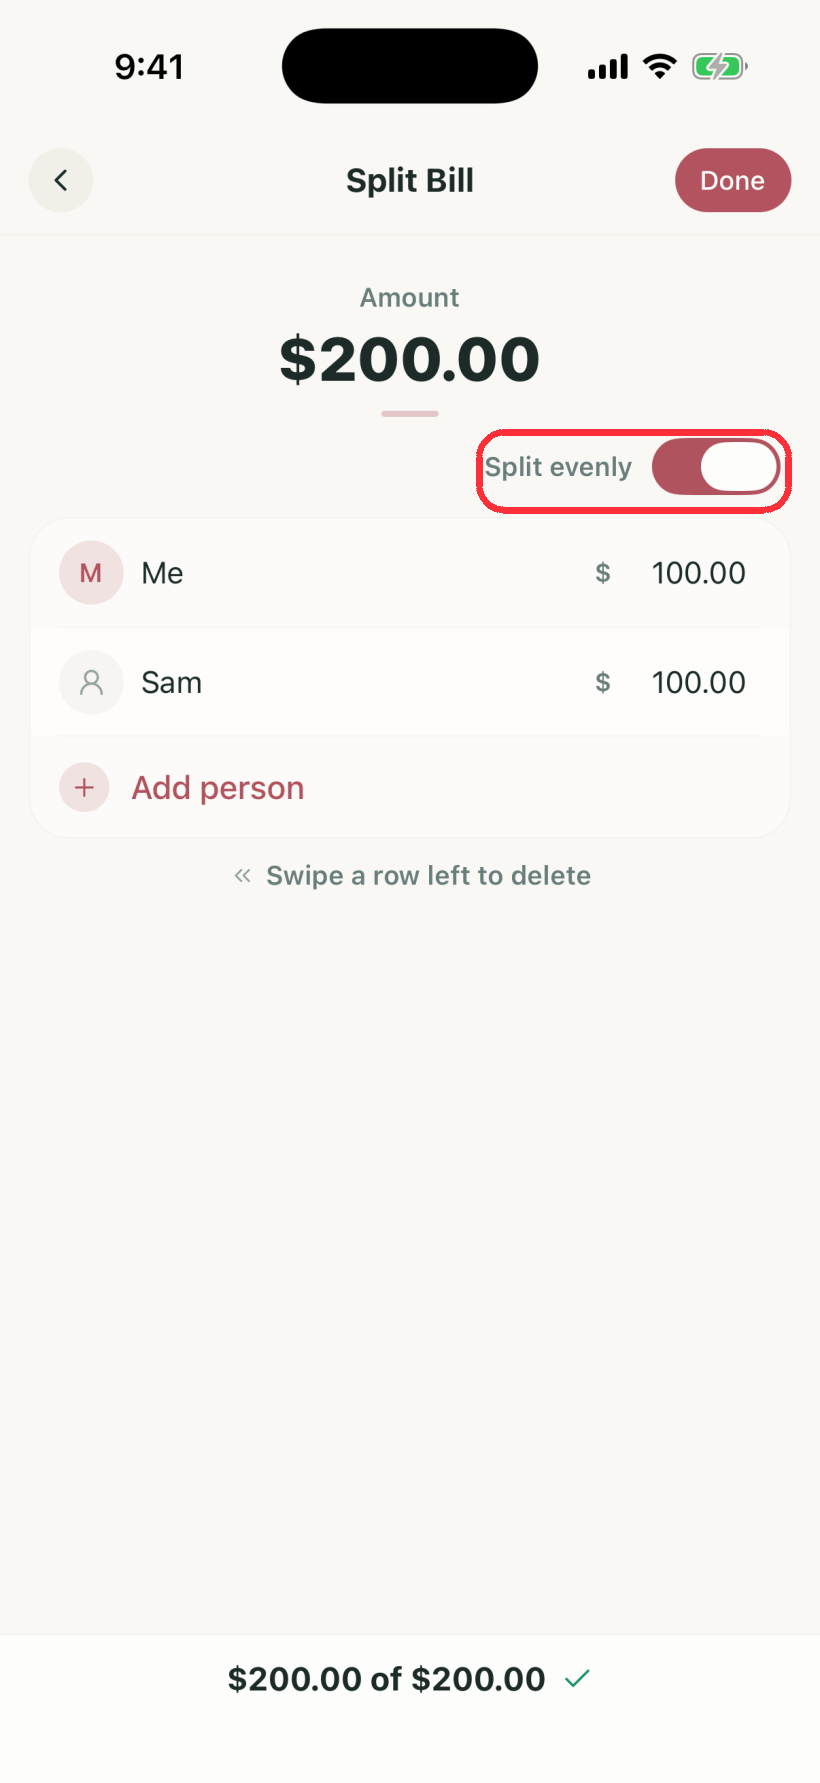
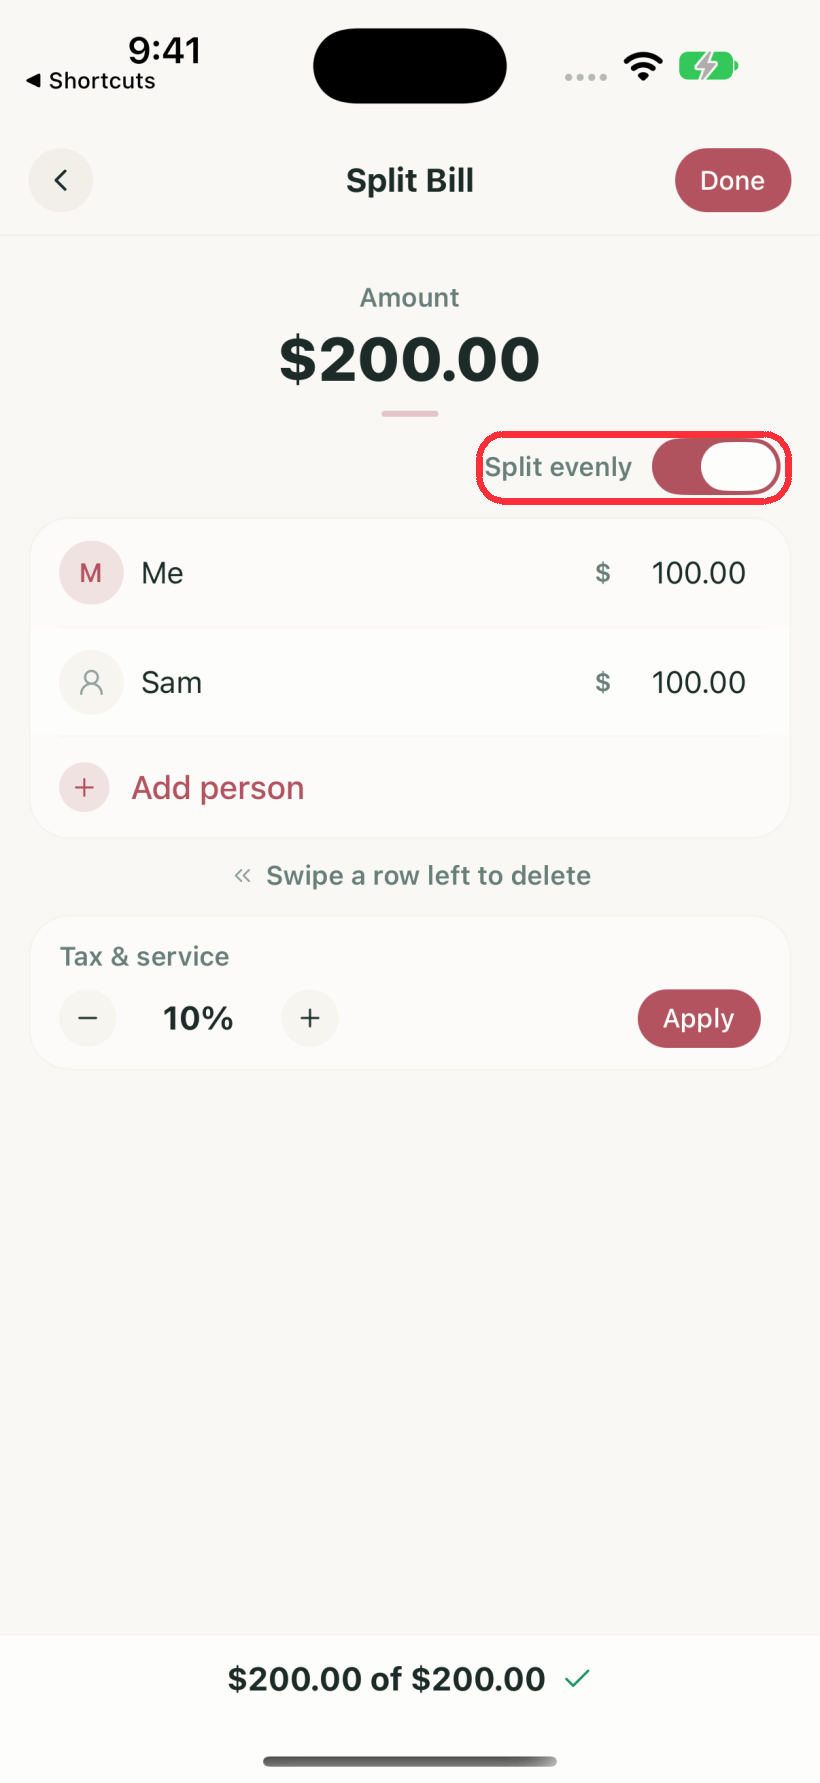
Fix split bill headers and tax adjustments (#568)

diff --git a/features/transactions/components/editor/SplitBillModal.tsx b/features/transactions/components/editor/SplitBillModal.tsx
@@ -36,7 +36,11 @@ import {
 } from '~/features/transactions/components/editor/calculatorEngine';
 import { MiniNumpad } from '~/features/transactions/components/editor/MiniNumpad';
 import { recentSplitPersonNames } from '~/features/transactions/lib/settleUp';
-import { applyPercent, nextEditableAmountIndex } from '~/features/transactions/lib/splitMath';
+import {
+  applyPercent,
+  nextEditableAmountIndex,
+  sumUnpaidRows,
+} from '~/features/transactions/lib/splitMath';
 import { useThemeColors } from '~/hooks/useThemeColors';
 import { I18n } from '~/lib/i18n';
 import { triggerHaptic } from '~/services/haptics';
@@ -80,7 +84,8 @@ interface SplitBillModalProps {
   total: number;
   defaultAccountId: string | null;
   splits: SplitDraft[];
-  onChange: (splits: SplitDraft[]) => void;
+  /** Percentage adjustments supply the matching parent total in fixed-total mode. */
+  onChange: (splits: SplitDraft[], adjustedTotal?: number) => void;
   splitEvenly: boolean;
   onSplitEvenlyChange: (v: boolean) => void;
   accounts: Account[];
@@ -100,7 +105,7 @@ const styles = StyleSheet.create({
   },
 });
 
-// Tax & service percentage stepper bounds (itemized mode). Negative values are
+// Tax & service percentage stepper bounds. Negative values are
 // a discount; applyPercent supports anything > -100.
 const DEFAULT_ADJUST_PERCENT = 10;
 const MIN_ADJUST_PERCENT = -99;
@@ -432,7 +437,7 @@ export function SplitBillModal({
 
   const diff = useMemo(() => Math.round((total - unpaidSum) * 100) / 100, [total, unpaidSum]);
 
-  // Itemized-mode tax & service adjustment: a single percentage stepper.
+  // Tax & service adjustment: a single percentage stepper.
   // Applying is a one-shot transform of the row amounts; applying twice
   // stacks intentionally (service charge, then GST).
   const [percent, setPercent] = useState(DEFAULT_ADJUST_PERCENT);
@@ -488,7 +493,7 @@ export function SplitBillModal({
     const next = applyPercent(splits, percent);
     if (!next) return;
     void triggerHaptic('success');
-    onChange(next);
+    onChange(next, itemized ? undefined : sumUnpaidRows(next));
     Keyboard.dismiss();
     // Close the mini numpad. Without this the focused row keeps showing its live
     // expression (not the freshly scaled amount) and confirming the pad would
@@ -496,7 +501,7 @@ export function SplitBillModal({
     // the highlighted field.
     setFocusedAmountIndex(null);
     setFocusedExpression('');
-  }, [onChange, percent, splits]);
+  }, [itemized, onChange, percent, splits]);
 
   const formatMoney = useCallback(
     (n: number) => {
@@ -945,66 +950,64 @@ export function SplitBillModal({
             </View>
           ) : null}
 
-          {/* Tax & service (itemized only): a percentage stepper applied
+          {/* Tax & service: a percentage stepper applied
               proportionally on top of the entered amounts. */}
-          {itemized ? (
-            <View className="mx-4 mt-3 rounded-[20px] bg-card/60 border border-border/25 overflow-hidden">
-              <View className="px-4 pt-3 pb-1">
-                <Text variant="caption" tone="muted">
-                  {percent < 0
-                    ? I18n.t('transactions.editor.split.discount_title')
-                    : I18n.t('transactions.editor.split.adjustments_title')}
-                </Text>
-              </View>
-              <View className="px-4 pb-3 pt-1 flex-row items-center gap-3">
-                <Pressable
-                  onPressIn={() => startHold(-1)}
-                  onPressOut={stopHold}
-                  disabled={percent <= MIN_ADJUST_PERCENT}
-                  hitSlop={6}
-                  className="h-8 w-8 rounded-full bg-secondary/60 items-center justify-center"
-                  style={{ opacity: percent <= MIN_ADJUST_PERCENT ? 0.4 : 1 }}
-                >
-                  <Minus size={14} color={themeColors.text} />
-                </Pressable>
-                <Text variant="bodyStrong" className="min-w-[60px] text-center">
-                  {I18n.t('transactions.editor.split.percent_chip', { percent })}
-                </Text>
-                <Pressable
-                  onPressIn={() => startHold(1)}
-                  onPressOut={stopHold}
-                  disabled={percent >= MAX_ADJUST_PERCENT}
-                  hitSlop={6}
-                  className="h-8 w-8 rounded-full bg-secondary/60 items-center justify-center"
-                  style={{ opacity: percent >= MAX_ADJUST_PERCENT ? 0.4 : 1 }}
-                >
-                  <Plus size={14} color={themeColors.text} />
-                </Pressable>
-
-                <View className="flex-1" />
-
-                <Pressable
-                  onPress={handleApplyPercent}
-                  disabled={!canApplyPercent}
-                  className={cn(
-                    'px-3.5 py-1.5 rounded-full active:opacity-80',
-                    canApplyPercent ? 'bg-primary' : 'bg-secondary/60',
-                  )}
-                  style={{ opacity: canApplyPercent ? 1 : 0.4 }}
-                >
-                  <Text
-                    variant="caption"
-                    className={cn(
-                      'font-medium',
-                      canApplyPercent ? 'text-primary-foreground' : 'text-muted-foreground',
-                    )}
-                  >
-                    {I18n.t('transactions.editor.split.apply')}
-                  </Text>
-                </Pressable>
-              </View>
+          <View className="mx-4 mt-3 rounded-[20px] bg-card/60 border border-border/25 overflow-hidden">
+            <View className="px-4 pt-3 pb-1">
+              <Text variant="caption" tone="muted">
+                {percent < 0
+                  ? I18n.t('transactions.editor.split.discount_title')
+                  : I18n.t('transactions.editor.split.adjustments_title')}
+              </Text>
             </View>
-          ) : null}
+            <View className="px-4 pb-3 pt-1 flex-row items-center gap-3">
+              <Pressable
+                onPressIn={() => startHold(-1)}
+                onPressOut={stopHold}
+                disabled={percent <= MIN_ADJUST_PERCENT}
+                hitSlop={6}
+                className="h-8 w-8 rounded-full bg-secondary/60 items-center justify-center"
+                style={{ opacity: percent <= MIN_ADJUST_PERCENT ? 0.4 : 1 }}
+              >
+                <Minus size={14} color={themeColors.text} />
+              </Pressable>
+              <Text variant="bodyStrong" className="min-w-[60px] text-center">
+                {I18n.t('transactions.editor.split.percent_chip', { percent })}
+              </Text>
+              <Pressable
+                onPressIn={() => startHold(1)}
+                onPressOut={stopHold}
+                disabled={percent >= MAX_ADJUST_PERCENT}
+                hitSlop={6}
+                className="h-8 w-8 rounded-full bg-secondary/60 items-center justify-center"
+                style={{ opacity: percent >= MAX_ADJUST_PERCENT ? 0.4 : 1 }}
+              >
+                <Plus size={14} color={themeColors.text} />
+              </Pressable>
+
+              <View className="flex-1" />
+
+              <Pressable
+                onPress={handleApplyPercent}
+                disabled={!canApplyPercent}
+                className={cn(
+                  'px-3.5 py-1.5 rounded-full active:opacity-80',
+                  canApplyPercent ? 'bg-primary' : 'bg-secondary/60',
+                )}
+                style={{ opacity: canApplyPercent ? 1 : 0.4 }}
+              >
+                <Text
+                  variant="caption"
+                  className={cn(
+                    'font-medium',
+                    canApplyPercent ? 'text-primary-foreground' : 'text-muted-foreground',
+                  )}
+                >
+                  {I18n.t('transactions.editor.split.apply')}
+                </Text>
+              </Pressable>
+            </View>
+          </View>
         </ScrollView>
 
         {/* Name suggestions: drop-up above the sum bar / keyboard while typing a name */}

diff --git a/features/transactions/components/TransactionEditorScreen.tsx b/features/transactions/components/TransactionEditorScreen.tsx
@@ -864,6 +864,14 @@ export function TransactionEditorScreen({
     [],
   );
   const [amountExpression, setAmountExpression] = useState('');
+  // Split edits replace the amount outside the keypad. Remount it with the new
+  // seed so its private expression cannot overwrite an adjustment or a cancel.
+  const [splitAmountRevision, setSplitAmountRevision] = useState(0);
+  const replaceAmountFromSplit = useCallback((next: string) => {
+    setAmount(next);
+    setAmountExpression('');
+    setSplitAmountRevision((revision) => revision + 1);
+  }, []);
   // Height of the software keyboard while the note field is focused. When > 0 we
   // lift the pinned bottom panel just enough for the note to clear the keyboard.
   // Restored to 0 on blur.
@@ -1638,7 +1646,7 @@ export function TransactionEditorScreen({
         Math.round(
           splits.reduce((acc, s) => (s.paid ? acc : acc + (Number(s.amount) || 0)), 0) * 100,
         ) / 100;
-      setAmount(sum > 0 ? sum.toFixed(2) : '');
+      replaceAmountFromSplit(sum > 0 ? sum.toFixed(2) : '');
       setSplitEvenly(false);
       setSplitItemized(false);
     }
@@ -1647,7 +1655,7 @@ export function TransactionEditorScreen({
       setSplitMode(false);
       setSplits([]);
     }
-  }, [splitItemized, splits]);
+  }, [replaceAmountFromSplit, splitItemized, splits]);
 
   const handleCancelSplitBill = useCallback(() => {
     setSplitRouteOpen(false);
@@ -1656,10 +1664,10 @@ export function TransactionEditorScreen({
     splitBillSnapshotRef.current = null;
     if (!snapshot) return;
     setSplits(snapshot.splits);
-    setAmount(snapshot.amount);
+    replaceAmountFromSplit(snapshot.amount);
     setSplitEvenly(snapshot.splitEvenly);
     setSplitMode(snapshot.splitMode);
-  }, []);
+  }, [replaceAmountFromSplit]);
 
   // Read the latest opener from a ref so the auto-open effect below can fire it
   // without listing it as a dep (which would let a mid-frame identity change
@@ -1761,6 +1769,14 @@ export function TransactionEditorScreen({
     [effectiveEntryCurrency],
   );
 
+  const handleSplitChange = useCallback(
+    (rows: SplitDraft[], adjustedTotal?: number) => {
+      setSplits(rows);
+      if (adjustedTotal !== undefined) replaceAmountFromSplit(adjustedTotal.toFixed(2));
+    },
+    [replaceAmountFromSplit],
+  );
+
   // Publish the editor's live split draft + callbacks for the pushed Split Bill
   // route to consume. The editor only ever writes the session (never reads it),
   // so republishing on every edit can't re-render this screen into a loop.
@@ -1771,7 +1787,7 @@ export function TransactionEditorScreen({
         itemized,
         defaultAccountId: defaultPaybackAccountId,
         splits: rows,
-        onChange: setSplits,
+        onChange: handleSplitChange,
         splitEvenly: evenly,
         onSplitEvenlyChange: setSplitEvenly,
         accounts,
@@ -1798,6 +1814,7 @@ export function TransactionEditorScreen({
       handleDoneSplitBill,
       handleSplitMarkPaidLocal,
       handleSplitMarkUnpaidLocal,
+      handleSplitChange,
       mode,
       newlyPaidIds,
       setSplitSession,
@@ -2849,6 +2866,7 @@ export function TransactionEditorScreen({
             <View className="flex-1">
               <NumpadPanel
                 resetNonce={bulkEntryNonce}
+                key={splitAmountRevision}
                 initialExpression={amount}
                 onBackgroundPress={clearActiveField}
                 onValueChange={handleAmountValueChange}
@@ -4449,6 +4467,7 @@ export function TransactionEditorScreen({
                     <NumpadPanel
                       compact
                       resetNonce={bulkEntryNonce}
+                      key={splitAmountRevision}
                       initialExpression={amount}
                       onValueChange={handleAmountValueChange}
                       onConfirm={handleAmountConfirm}

diff --git a/components/ui/settings.tsx b/components/ui/settings.tsx
@@ -155,7 +155,10 @@ export function SettingsHeader({
           natural-width slots so the title gives them room on smaller screens. */}
       <View className="flex-row items-center gap-2" style={{ minHeight: 40 }}>
         <View
-          className={cn('flex-row items-center justify-start', fitActions ? 'min-w-10' : 'flex-1')}
+          className={cn(
+            'min-w-10 shrink-0 flex-row items-center justify-start',
+            !fitActions && 'flex-1',
+          )}
         >
           {onBack ? (
             <HeaderIconButton
@@ -168,15 +171,15 @@ export function SettingsHeader({
 
         <View
           className={cn(
-            'flex-row items-center justify-center gap-1.5',
-            fitActions && 'min-w-0 flex-1',
+            'min-w-0 flex-row items-center justify-center gap-1.5',
+            fitActions && 'flex-1',
           )}
           style={{ flexShrink: 1 }}
         >
           <Text
             variant="subheading"
             numberOfLines={1}
-            className={cn('tracking-tight text-center', fitActions && 'min-w-0 shrink')}
+            className="min-w-0 shrink tracking-tight text-center"
           >
             {title}
           </Text>
@@ -185,8 +188,8 @@ export function SettingsHeader({
 
         <View
           className={cn(
-            'flex-row items-center justify-end gap-2',
-            fitActions ? 'min-w-10 shrink-0' : 'flex-1',
+            'min-w-10 shrink-0 flex-row items-center justify-end gap-2',
+            !fitActions && 'flex-1',
           )}
         >
           {rightAccessory}

diff --git a/features/transactions/screens/SplitBillScreen.tsx b/features/transactions/screens/SplitBillScreen.tsx
@@ -44,10 +44,10 @@ export function SplitBillScreen() {
     setSeenSessionSplits(sessionSplits);
     if (sessionSplits && !sentSplitsRef.current.has(sessionSplits)) setSplits(sessionSplits);
   }
-  const handleSplitsChange = useCallback((next: SplitDraft[]) => {
+  const handleSplitsChange = useCallback((next: SplitDraft[], adjustedTotal?: number) => {
     sentSplitsRef.current.add(next);
     setSplits(next);
-    sessionRef.current?.onChange(next);
+    sessionRef.current?.onChange(next, adjustedTotal);
   }, []);
 
   // Any removal that wasn't an explicit Done is a cancel — covers the header

diff --git a/context/SplitBillSession.tsx b/context/SplitBillSession.tsx
@@ -21,7 +21,8 @@ export interface SplitBillSession {
   itemized: boolean;
   defaultAccountId: string | null;
   splits: SplitDraft[];
-  onChange: (splits: SplitDraft[]) => void;
+  /** A percentage adjustment also replaces the parent total in fixed-total mode. */
+  onChange: (splits: SplitDraft[], adjustedTotal?: number) => void;
   splitEvenly: boolean;
   onSplitEvenlyChange: (value: boolean) => void;
   accounts: Account[];

diff --git a/features/transactions/screens/SettleUpTransactionScreen.tsx b/features/transactions/screens/SettleUpTransactionScreen.tsx
@@ -115,6 +115,7 @@ export function SettleUpTransactionScreen({
   return (
     <SettingsPageLayout>
       <SettingsHeader
+        fitActions
         className="px-5 pt-5 pb-3"
         onBack={onBack}
         title={title}
